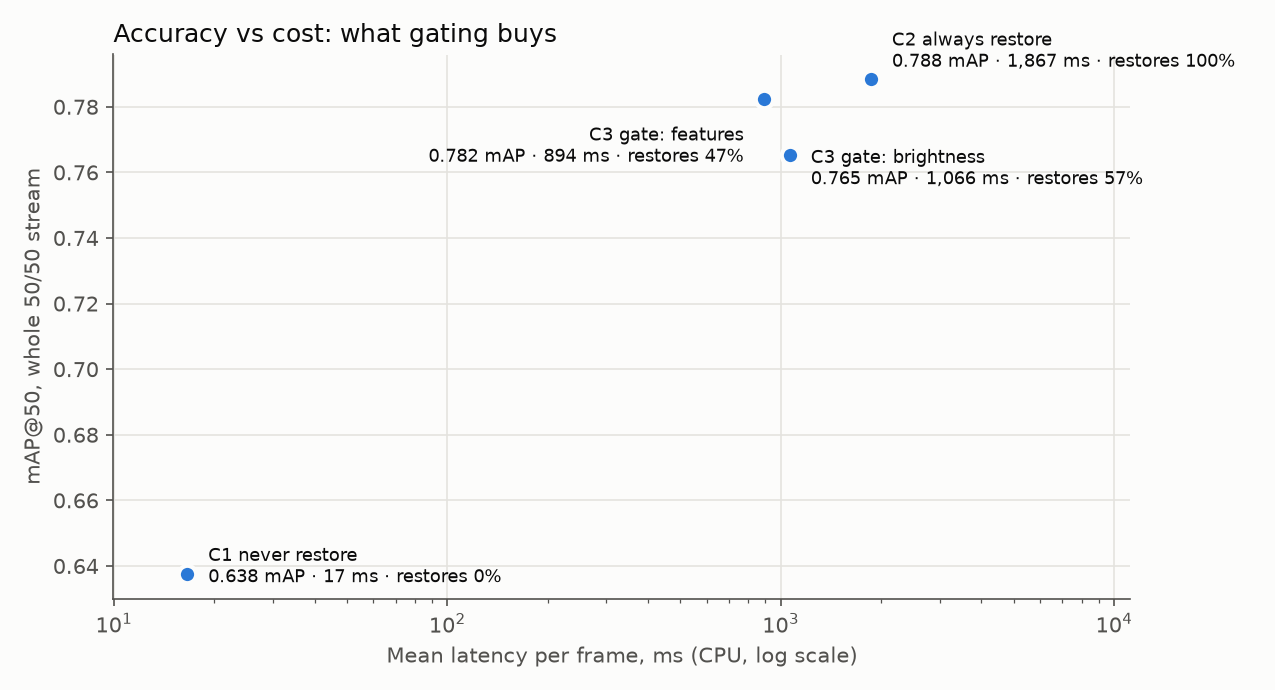
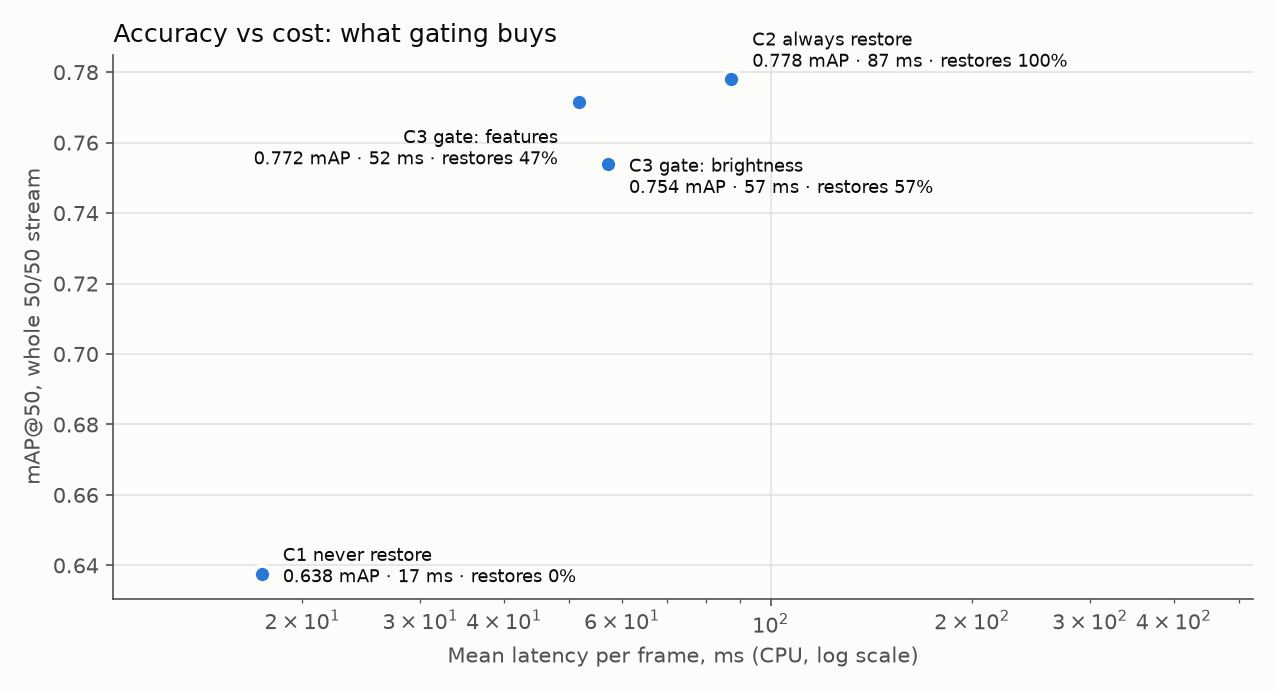
demo: rebuild figures and report around the trained daytime restorer, with a restorer comparison

diff --git a/src/make_demo.py b/src/make_demo.py
@@ -316,15 +316,15 @@ def main() -> int:
                                               and params[("val", k[0])]["gate_excluded"] != "1"],
         }
         rows = []
-        for name, keys in outcomes.items():
+        for outcome, keys in outcomes.items():
             k = median_by(keys, lambda kk: score[kk])
             if k is None:
                 continue
             img = cv2.imread(str(path[k[1]](k[0])))[:, :, ::-1]
             extra = describe(k[0]) if k[1] == "glared" else f"{k[0]} · clean"
-            rows.append((img, f"{name} — {extra} · features score {score[k]:.2f} "
+            rows.append((img, f"{outcome} — {extra} · features score {score[k]:.2f} "
                               f"(n = {len(keys)} in this outcome)"))
-            selected[f"gate_{name}"] = f"{k[0]}_{k[1]}"
+            selected[f"gate_{outcome}"] = f"{k[0]}_{k[1]}"
         panel_figure(rows, "C3 gate decisions (features gate), one typical frame per outcome",
                      OUT / "04_gate_decisions.png",
                      note="Selection: within each outcome, the frame with the median gate score.")

diff --git a/demo/REPORT.md b/demo/REPORT.md
@@ -9,8 +9,7 @@
   (2,982 images, exactly 50/50). Glare: v2 camera-model synthesis,
   four types, continuous severity. 5 frames used to tune the restorer are excluded.
 - **Detector:** YOLOv8n trained on clean KITTI train only (`models/yolo_c1_train.pt`, 50 epochs).
-- **Restorer:** pretrained Flare7K++ Uformer, whole-frame mode (`src/restore_seamless.py`,
-  built on Vihaan's handover). **1,850 ms/frame on CPU.**
+- **Restorer:** daytime trained U-Net (src/restore_daytime_net.py). **70 ms/frame on CPU.**
 - **Gates (C3),** fit on v2 *train* only: an upper-third brightness threshold, and a
   logistic regression on Harshitha's 9 gate features (standing in for her v2 gate).
 
@@ -18,15 +17,15 @@
 | Arm | mAP@50 stream | clean frames | glared frames | glared, severe | Restores | Latency ms/frame (CPU) |
 |---|---|---|---|---|---|---|
 | C1 · never restore | 0.638 | 0.850 | 0.434 | 0.248 | 0.0% | 17 |
-| C2 · always restore | 0.788 | 0.848 | 0.734 | 0.667 | 100.0% | 1,867 |
-| C3 · gate: brightness | 0.765 | 0.850 | 0.687 | 0.635 | 56.7% | 1,066 |
-| C3 · gate: features | 0.782 | 0.849 | 0.722 | 0.663 | 47.3% | 894 |
+| C2 · always restore | 0.778 | 0.849 | 0.714 | 0.635 | 100.0% | 87 |
+| C3 · gate: brightness | 0.754 | 0.850 | 0.666 | 0.605 | 56.7% | 57 |
+| C3 · gate: features | 0.772 | 0.849 | 0.703 | 0.632 | 47.3% | 52 |
 
 - **Glare costs the detector 0.415 mAP@50**
   (0.850 → 0.434); on severe frames
   0.865 → 0.248.
-- **Gating:** the best C3 (C3 · gate: features) runs at 894 ms/frame against C2's
-  1,867 ms/frame (2.1× cheaper), restoring 47%
+- **Gating:** the best C3 (C3 · gate: features) runs at 52 ms/frame against C2's
+  87 ms/frame (1.7× cheaper), restoring 47%
   of frames.
 
 ![accuracy vs latency](08_chart_accuracy_vs_latency.png)
@@ -35,26 +34,32 @@
 ## Restoration recovers most of the glare loss
 | Glared frames | n | Clean | Glared | Restored | Share of loss recovered |
 |---|---|---|---|---|---|
-| All | 1491 | 0.850 | 0.434 | 0.734 | 72% |
-| Severe | 640 | 0.865 | 0.248 | 0.667 | 68% |
-| Non-severe | 851 | 0.841 | 0.581 | 0.791 | 81% |
+| All | 1491 | 0.850 | 0.434 | 0.714 | 67% |
+| Severe | 640 | 0.865 | 0.248 | 0.634 | 63% |
+| Non-severe | 851 | 0.841 | 0.581 | 0.776 | 75% |
 
-Restoring a frame **without** glare is nearly free in accuracy: on a 200-frame subset,
-clean-frame mAP@50 went 0.874 →
-0.871
-(-0.003). So gating saves **time**, not accuracy.
+**Restoring frames without glare:** over all 1,491 clean val frames, always
+restoring changed mAP@50 from 0.850 to 0.849
+(-0.001). That is close to free, so here the gate mainly saves time.
+
+## Restorers compared (same frames, same detector, same gates)
+| Restorer | ms/frame (CPU) | Glared mAP@50 restored | Share of loss recovered | Clean-frame change (C2−C1) | C2 stream mAP@50 | C3 features stream mAP@50 | C3 features ms/frame |
+|---|---|---|---|---|---|---|---|
+| Flare7K++ night model, whole-frame (src/restore_seamless.py) | 1,850 | 0.734 | 72% | -0.002 | 0.788 | 0.782 | 894 |
+| daytime classical veil subtraction (src/restore_daytime.py) | 20 | 0.602 | 40% | -0.126 | 0.662 | 0.722 | 26 |
+| daytime trained U-Net (src/restore_daytime_net.py) | 70 | 0.714 | 67% | -0.001 | 0.778 | 0.772 | 52 |
 
 ![recovery by severity](09_chart_recovery_by_severity.png)
 
 ## Latency breakdown (mean ms per frame, CPU, warm-up excluded)
 | Arm | Gate | Detection | Restoration × trigger rate | Total |
 |---|---|---|---|---|
-| C1 · never restore | 0.00 | 16.6 | 0 | **17** |
-| C2 · always restore | 0.00 | 16.6 | 1,850 | **1,867** |
-| C3 · gate: brightness | 0.12 | 16.6 | 1,049 | **1,066** |
-| C3 · gate: features | 1.14 | 16.6 | 876 | **894** |
+| C1 · never restore | 0.00 | 17.4 | 0 | **17** |
+| C2 · always restore | 0.00 | 17.4 | 70 | **87** |
+| C3 · gate: brightness | 0.12 | 17.4 | 40 | **57** |
+| C3 · gate: features | 1.14 | 17.4 | 33 | **52** |
 
-Restoration is ~111× the cost of detection,
+Restoration is ~4× the cost of detection,
 which is what makes skipping it worthwhile.
 
 ## Gate quality (val, gate protocol: glared veiling_wash frames with s < 0.1752 not scored)
@@ -63,14 +68,12 @@ which is what makes skipping it worthwhile.
 | C3 · gate: brightness | 0.616 | 0.717 | 0.663 | 0.643 | 56.7% |
 | C3 · gate: features | 0.916 | 0.882 | 0.899 | 0.903 | 47.3% |
 
-The features gate is likely inflated by the synthesis artifacts. After restoration the same
-features separate clean from glared far less well: accuracy 89.5%
-on originals vs 61.3% clean-vs-restored (200-frame subset).
+The features gate is likely inflated by the synthesis artifacts.
 
 ## Figures in this folder
 | File | Shows |
 |---|---|
-| `01_pipeline_walkthrough_004980.png` | One frame through the pipeline: clean → glared (with both gate decisions) → restored, with detections |
+| `01_pipeline_walkthrough_007004.png` | One frame through the pipeline: clean → glared (with both gate decisions) → restored, with detections |
 | `02_glare_types_glared_vs_restored.png` | A typical severe frame of each glare type, before and after restoration |
 | `03_severity_ramp_*.png` | Each glare type at lowest, median and highest severity |
 | `04_gate_decisions.png` | The features gate: a correct fire, a correct skip, a false alarm and a miss |
@@ -82,13 +85,13 @@ on originals vs 61.3% clean-vs-restored (200-frame subset).
 *median* detection gain from restoration; the walkthrough is the median over all types;
 the failure case is the lowest F1 after restoration; gate examples are the median gate
 score within each outcome. Over the 640 severe frames, the median per-frame F1
-gain from restoration was +0.274.
+gain from restoration was +0.214.
 Box colours: green = correct detection, red = false detection, yellow = missed object.
 
 ## Caveats
 1. **Synthetic glare that failed its shortcut test.** Restoration may suit this additive,
    smooth glare better than real glare; confirm on real glare (e.g. BDD100K) before quoting.
 2. **The C3 gates are stand-ins,** fit here on v2 train; Harshitha's v2 gate is not trained yet.
-3. **Flare7K++ is a nighttime lens-flare model** applied to daytime sun glare.
+3. **The daytime restorer was tuned or trained on our synthetic glare only** (train split); real-glare performance is untested.
 4. KITTI's train/val split shares drives, so absolute mAP is slightly optimistic; the
    comparisons between arms use identical frames and are unaffected.
